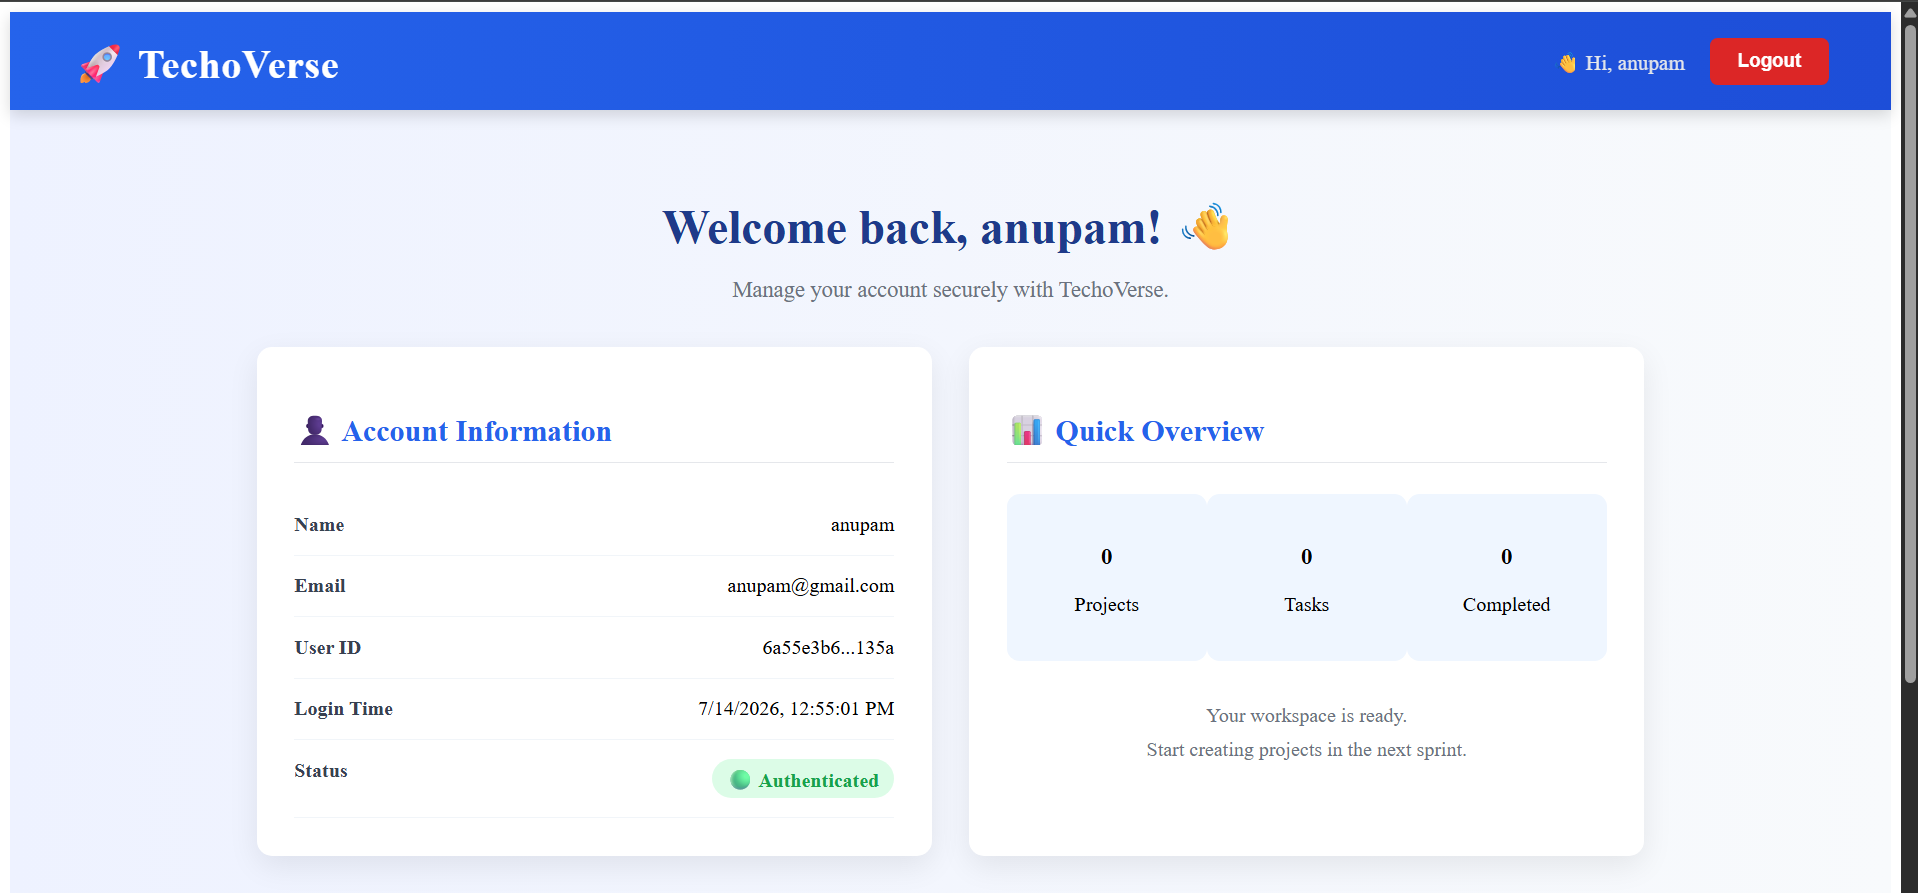
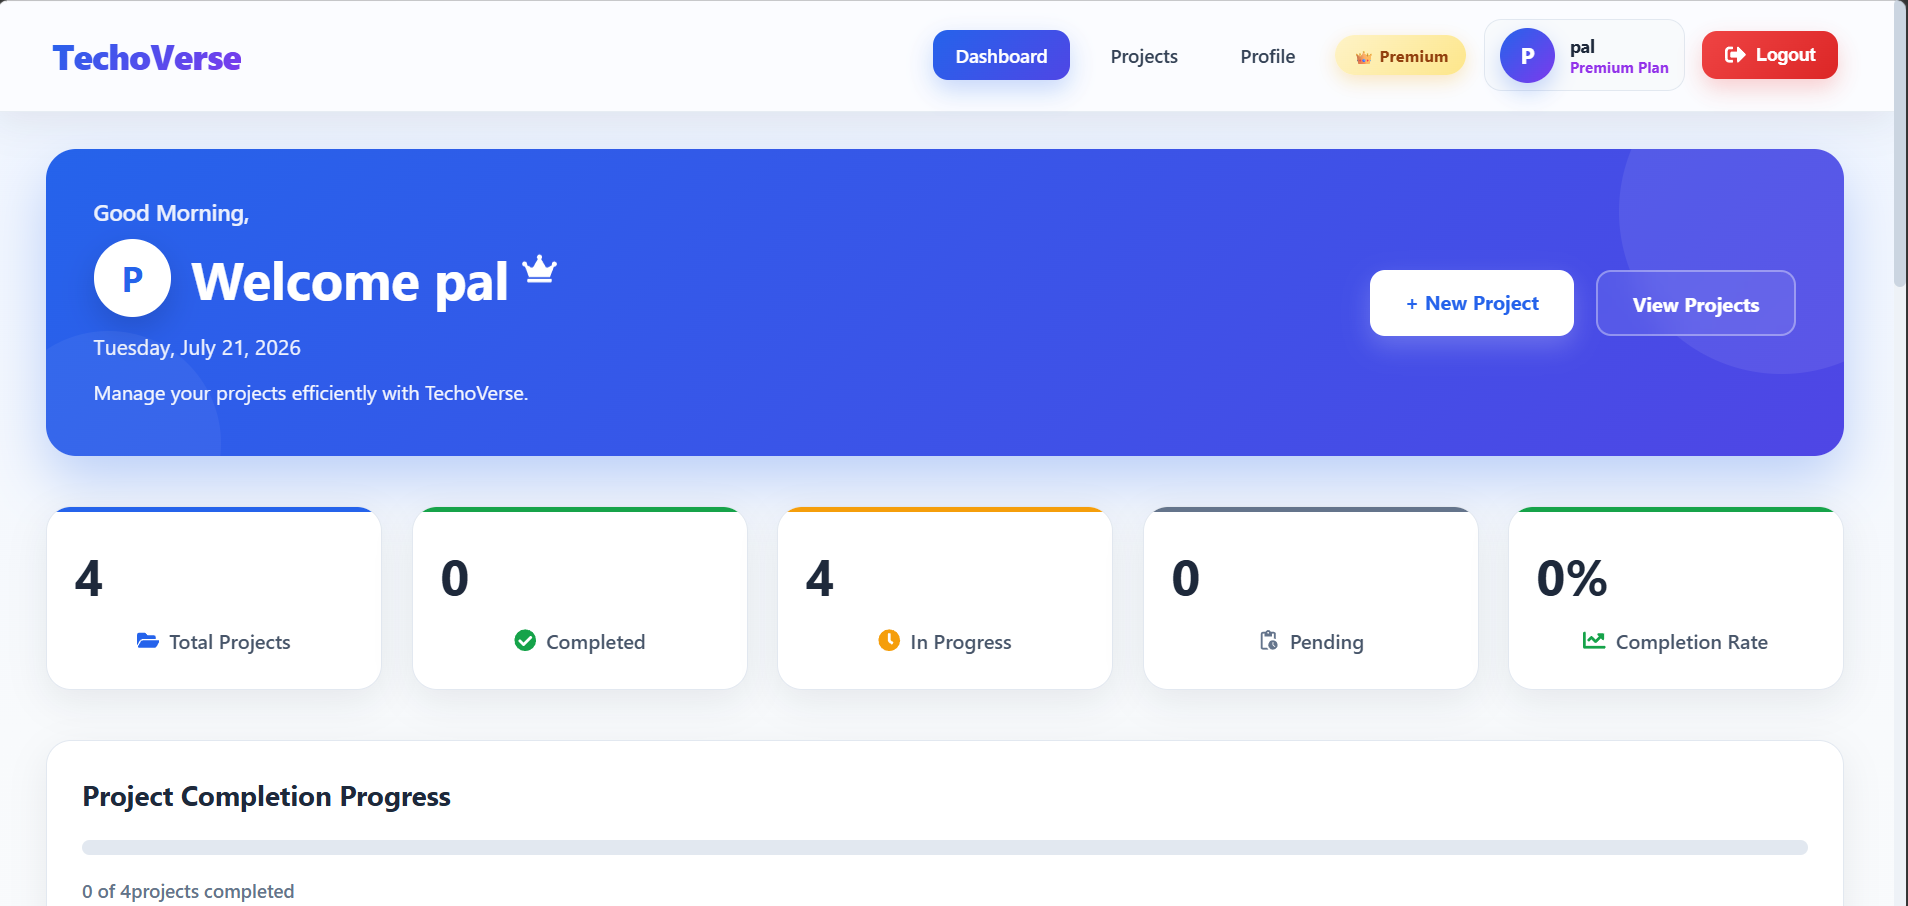
Add Sprint 15 screenshots to README

diff --git a/README.md b/README.md
@@ -274,7 +274,7 @@ All operations update the UI instantly without page refresh.
 
 ---
 
-# 🧪 Testing
+#  Testing
 
 Completed Test Cases
 
@@ -294,13 +294,67 @@ Completed Test Cases
 
 ---
 
-# 🚀 Sprint 15 Completion
 
-| Feature | Status |
+## 🔐 Login
+
+![Login](images/login.png)
+
+---
+
+## 📝 Register
+
+![Register](images/register.png)
+
+
+#  Sprint 15 Completion
+## 📊 Dashboard
+
+![Dashboard](images/dashboard.png)
+
+
+| Feature | Status |## 📁 Project Management
+
+### Project List
+
+![Projects](images/projects.png)
+
+### Create Project
+
+![Create Project](images/create-project.png)
+
+### Edit Project
+
+![Edit Project](images/edit-project.png)
+
+### Delete Project
+
+![Delete Project](images/delete-project.png)## 📈 Dashboard Analytics
+
+![Analytics](images/analytics.png)
+
+## 👑 Premium Membership
+
+![Premium](images/premium.png)
+
+## 👤 Profile
+
+![Profile](images/profile.png)
+
+## Quick Actions
+
+![Quick](images/quick.png)
+
+## 💳 Stripe Checkout
+
+![Stripe](images/stripe-checkout.png)
+
+
+
+
 |----------|--------|
 | Authentication | ✅ |
 | JWT Protection | ✅ |
-| Project CRUD | ✅ |
+| Project CRUD | ✅ |## 📈 Dashboard Analytics## 👑 Premium Membership
 | MongoDB Integration | ✅ |
 | Ownership Validation | ✅ |
 | Dashboard Analytics | ✅ |